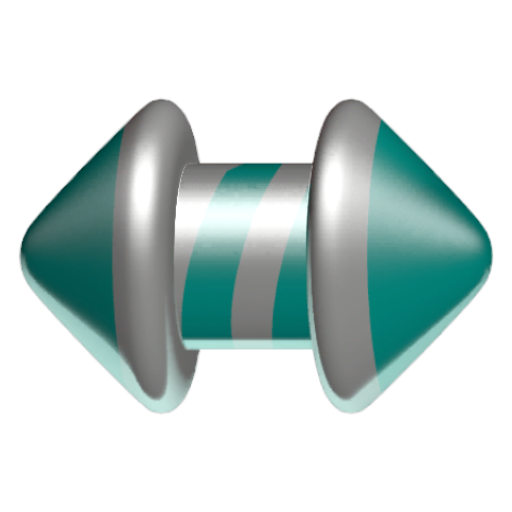
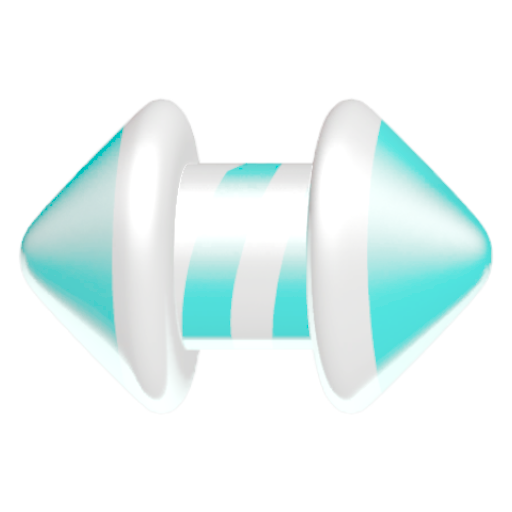
better colors for line bonuses

diff --git a/MonoMatch3/GameManager.cs b/MonoMatch3/GameManager.cs
@@ -29,7 +29,6 @@ public class GameManager() : Core("Mono Match 3", new Vector2(1024, 1024), false
         "12. За каждый исчезнувший элемент игрок получает очки. Количество набранных очков должно быть видно на Игровом Экране.",
         "13. Игроку даётся 60 секунд на игру. По истечении этого времени игра заканчивается. На Игровом Экране должно быть видно сколько времени осталось.",
         "14. По завершению игры должно появиться сообщение «Game Over», с единственной кнопкой Ok. При нажатии на Ok игрок попадёт в Главное Меню.",
-        "17. Line бонус имеет цвет такой же, как цвет элементов, участвовавших в матче.",
         "19. В случае, если Line бонус участвует в матче, он срабатывает: элемент разрушается, и из него в противоположных направлениях, зависящих от направления бонуса, вылетают два Разрушителя, каждый из которых летит прямо, пока не долетит до края игрового поля.",
         "20. Если над элементом летит Разрушитель, элемент уничтожается.",
         "21. Все перемещения Разрушителей должны быть анимированы.",
